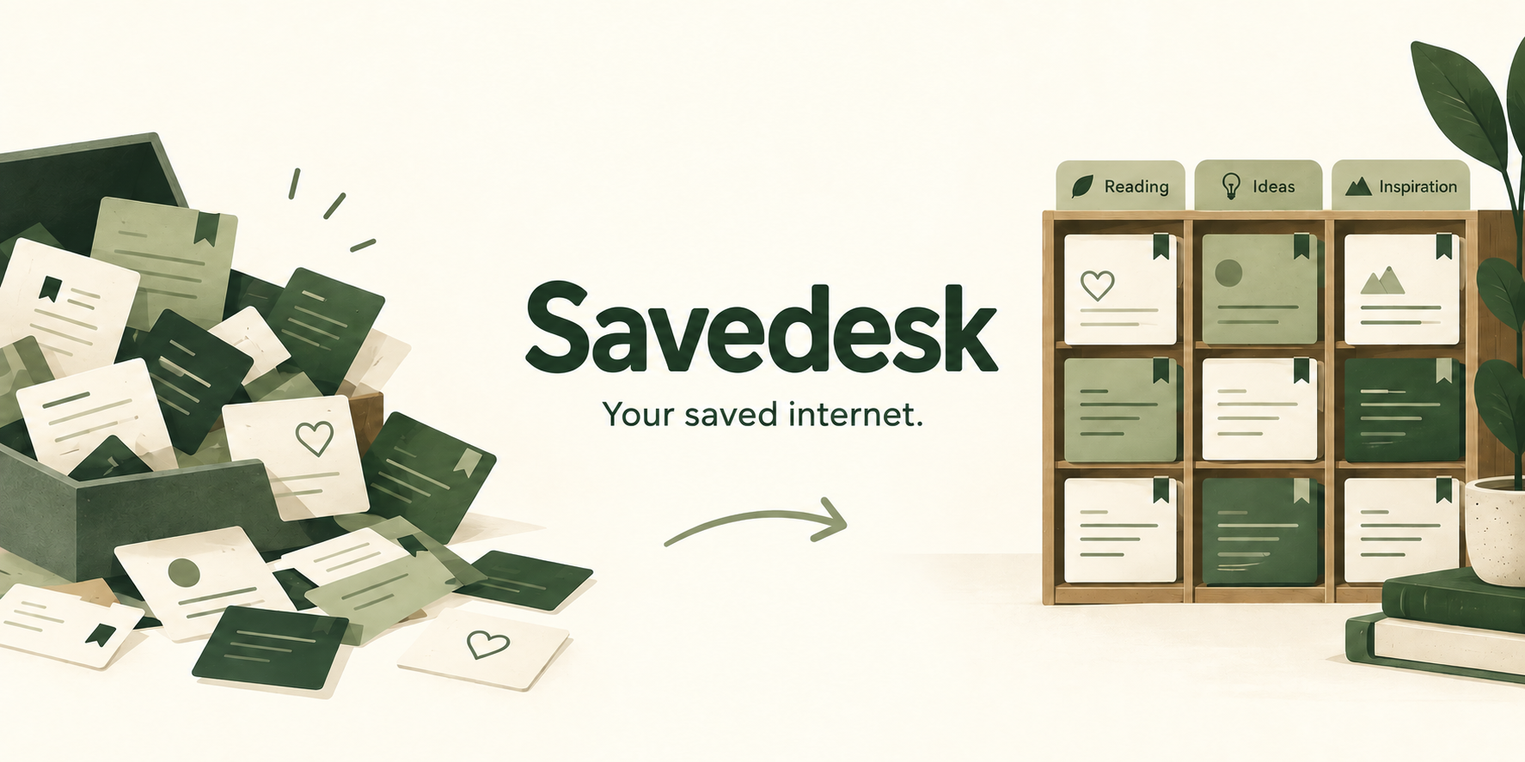
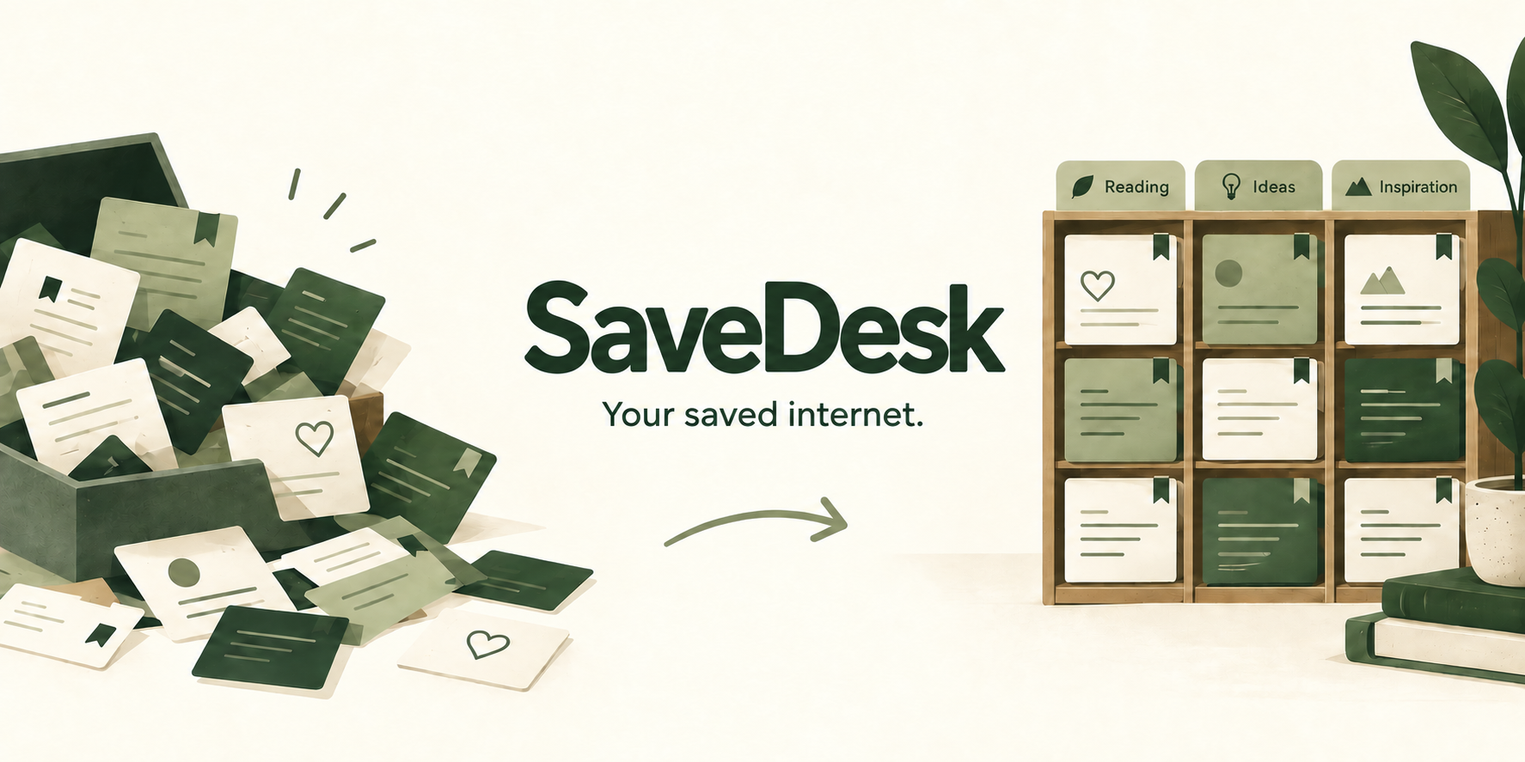
Use SaveDesk branding and correct renamed site links
* Style the product name as SaveDesk

* Update links for the renamed SaveDesk repository

---------

Changed region(s): [[0.403, 0.3653, 0.6821, 0.487], [0.8991, 0.2435, 0.9301, 0.274], [0.372, 0.4566, 0.403, 0.487]]

diff --git a/index.html b/index.html
@@ -4,12 +4,12 @@
 <meta charset="utf-8"><meta name="viewport" content="width=device-width,initial-scale=1,viewport-fit=cover">
 <meta http-equiv="Content-Security-Policy" content="default-src 'self'; script-src 'self'; style-src 'self'; connect-src 'self'; worker-src 'self'; object-src 'none'; base-uri 'none'; form-action 'self'">
 <meta name="description" content="Turn your saved X posts into a searchable reading library. No account or installation needed for file imports.">
-<title>Savedesk · Your saved internet</title>
+<title>SaveDesk · Your saved internet</title>
 <link rel="stylesheet" href="style.css">
 </head>
 <body>
 <div class="shell">
-<header><a class="brand" href="./" aria-label="Savedesk home">▧ save<span>desk</span></a><div class="actions"><button id="help">Quick guide</button><button id="manage">Backup & share</button><button class="primary" id="add">+ Add your saves</button></div></header>
+<header><a class="brand" href="./" aria-label="SaveDesk home">▧ Save<span>Desk</span></a><div class="actions"><button id="help">Quick guide</button><button id="manage">Backup & share</button><button class="primary" id="add">+ Add your saves</button></div></header>
 <main>
 <aside><p class="eyebrow">Your library</p><nav id="nav" aria-label="Library filters"><button data-filter="all" class="active">▦ All saves</button><button data-filter="unread">◷ Unread</button><button data-filter="like">♡ Likes</button><button data-filter="bookmark">⚑ Bookmarks</button><button data-filter="read">✓ Reviewed</button></nav><div class="stats" id="stats"></div><p class="aside-note">A little less scrolling.<br>A little more discovering.</p></aside>
 <section class="library">
@@ -23,16 +23,16 @@
 <p class="local-note">Your imports and reading progress stay in this browser. Use <button class="text-button" id="backup-reminder">Backup & share</button> to keep a copy.</p>
 </section>
 </main>
-<footer class="site-footer"><span>Made for a second look.</span><a href="https://github.com/SharpMeow/savedesk" target="_blank" rel="noopener noreferrer">About this open-source project ↗</a></footer>
+<footer class="site-footer"><span>Made for a second look.</span><a href="https://github.com/SharpMeow/SaveDesk" target="_blank" rel="noopener noreferrer">About this open-source project ↗</a></footer>
 </div>
 <dialog id="onboarding" aria-labelledby="onboarding-title"><div class="dialog-heading"><span class="eyebrow">A few simple steps</span><button data-close="onboarding" aria-label="Close getting started">✕</button></div><h2 id="onboarding-title">Bring your saves along.</h2><p class="muted">Choose the path that fits. You can try the examples while X prepares your archive.</p>
-<div class="setup-steps"><section><span class="step-number">1</span><div><h3>Get your likes from X</h3><p>In X, open <strong>Settings and privacy → Your account → Download an archive of your data</strong>. Request your archive, then download it when X tells you it’s ready.</p><a href="https://help.x.com/en/managing-your-account/how-to-download-your-x-archive" target="_blank" rel="noopener noreferrer">Open X’s step-by-step instructions ↗</a></div></section><section><span class="step-number">2</span><div><h3>Choose your file</h3><p>Already have it? Select your X archive ZIP or the <strong>like.js</strong> file inside its <strong>data</strong> folder. We read the likes files and skip the other archive entries.</p><label class="source-label" for="source">What are you adding?</label><select id="source"><option value="like">Likes or an X archive</option><option value="bookmark">A bookmarks export</option></select><button class="primary" id="import">Choose a file</button><input id="file" type="file" accept=".zip,.json,.js"><p class="small">A Savedesk backup works too. ZIPs up to 200 MB; JSON and JS files up to 50 MB. Your file is read on your device, not uploaded.</p><p id="import-status" role="status"></p></div></section><section><span class="step-number">3</span><div><h3>Find your next good read</h3><p>Search, add topics, and mark posts as read. Come back in this same browser to pick up where you left off.</p></div></section></div>
+<div class="setup-steps"><section><span class="step-number">1</span><div><h3>Get your likes from X</h3><p>In X, open <strong>Settings and privacy → Your account → Download an archive of your data</strong>. Request your archive, then download it when X tells you it’s ready.</p><a href="https://help.x.com/en/managing-your-account/how-to-download-your-x-archive" target="_blank" rel="noopener noreferrer">Open X’s step-by-step instructions ↗</a></div></section><section><span class="step-number">2</span><div><h3>Choose your file</h3><p>Already have it? Select your X archive ZIP or the <strong>like.js</strong> file inside its <strong>data</strong> folder. We read the likes files and skip the other archive entries.</p><label class="source-label" for="source">What are you adding?</label><select id="source"><option value="like">Likes or an X archive</option><option value="bookmark">A bookmarks export</option></select><button class="primary" id="import">Choose a file</button><input id="file" type="file" accept=".zip,.json,.js"><p class="small">A SaveDesk backup works too. ZIPs up to 200 MB; JSON and JS files up to 50 MB. Your file is read on your device, not uploaded.</p><p id="import-status" role="status"></p></div></section><section><span class="step-number">3</span><div><h3>Find your next good read</h3><p>Search, add topics, and mark posts as read. Come back in this same browser to pick up where you left off.</p></div></section></div>
 <div class="note"><strong>Looking for your bookmarks?</strong><p>X archives may not include them. You can add a compatible bookmarks export. Direct X sign-in is available only on a site whose owner has configured it.</p></div>
 <div id="connect-option" hidden><button id="connect" class="primary">Connect X instead</button><p class="small">Read-only access. Sign in on X, then return here to sync.</p></div>
-<details><summary>For people setting up their own site</summary><p>Optional X sign-in requires a developer app and a server. <a href="https://github.com/SharpMeow/savedesk/blob/main/docs/X_SETUP.md" target="_blank" rel="noopener noreferrer">Read the setup guide ↗</a>.</p></details>
+<details><summary>For people setting up their own site</summary><p>Optional X sign-in requires a developer app and a server. <a href="https://github.com/SharpMeow/SaveDesk/blob/main/docs/X_SETUP.md" target="_blank" rel="noopener noreferrer">Read the setup guide ↗</a>.</p></details>
 </dialog>
-<dialog id="guide" aria-labelledby="guide-title"><div class="dialog-heading"><span class="eyebrow">Make yourself at home</span><button data-close="guide" aria-label="Close quick guide">✕</button></div><h2 id="guide-title">A small guide to Savedesk.</h2><ol class="guide-list"><li><strong>Add your saves.</strong> Choose an X archive, an export, or a Savedesk backup. No GitHub account is needed.</li><li><strong>Find an idea.</strong> Search words, use @ for an author or # for a topic, or choose a filter. Press ⌘/Ctrl+K to jump to search.</li><li><strong>Make it yours.</strong> Add topics and mark posts as read. The Unread tab keeps your next reads together.</li><li><strong>Take a few ideas elsewhere.</strong> Select cards and choose “Copy for an AI chat.” Paste the text into any chat you choose. Nothing is sent automatically.</li><li><strong>Keep or share a copy.</strong> Download a backup for yourself, or a shareable page for someone else. They can open that page in a browser.</li></ol><p class="note">Your library lives in this browser. A backup helps you move it to another device or recover it after clearing browser data.</p><button id="guide-start" class="primary">Add your saves →</button></dialog>
-<dialog id="manage-dialog" aria-labelledby="manage-title"><div class="dialog-heading"><span class="eyebrow">Keep the good stuff</span><button data-close="manage-dialog" aria-label="Close backup and share">✕</button></div><h2 id="manage-title">Keep a copy. Pass an idea along.</h2><section class="option"><h3>A backup for you</h3><p>Save your library, topics, and reading progress. To restore it on any device, open Savedesk and choose the backup file.</p><button id="export">Download backup</button></section><section class="option"><h3>A page you can share</h3><p>Download a searchable HTML page of your collection. Send the file however you like; the recipient can open it in a browser, without Savedesk or GitHub.</p><p class="small">Includes post text, authors, and topics. Anyone with the file can read it. Your reading progress is left out.</p><button id="share" class="primary">Download shareable page</button></section><details><summary>Advanced: publish a website</summary><p>For people hosting Savedesk, download the public data file and follow the <a href="https://github.com/SharpMeow/savedesk/blob/main/docs/DEPLOYMENT.md" target="_blank" rel="noopener noreferrer">publishing guide ↗</a>.</p><button id="publish">Download website data</button></details><p id="manage-status" role="status"></p></dialog>
+<dialog id="guide" aria-labelledby="guide-title"><div class="dialog-heading"><span class="eyebrow">Make yourself at home</span><button data-close="guide" aria-label="Close quick guide">✕</button></div><h2 id="guide-title">A small guide to SaveDesk.</h2><ol class="guide-list"><li><strong>Add your saves.</strong> Choose an X archive, an export, or a SaveDesk backup. No GitHub account is needed.</li><li><strong>Find an idea.</strong> Search words, use @ for an author or # for a topic, or choose a filter. Press ⌘/Ctrl+K to jump to search.</li><li><strong>Make it yours.</strong> Add topics and mark posts as read. The Unread tab keeps your next reads together.</li><li><strong>Take a few ideas elsewhere.</strong> Select cards and choose “Copy for an AI chat.” Paste the text into any chat you choose. Nothing is sent automatically.</li><li><strong>Keep or share a copy.</strong> Download a backup for yourself, or a shareable page for someone else. They can open that page in a browser.</li></ol><p class="note">Your library lives in this browser. A backup helps you move it to another device or recover it after clearing browser data.</p><button id="guide-start" class="primary">Add your saves →</button></dialog>
+<dialog id="manage-dialog" aria-labelledby="manage-title"><div class="dialog-heading"><span class="eyebrow">Keep the good stuff</span><button data-close="manage-dialog" aria-label="Close backup and share">✕</button></div><h2 id="manage-title">Keep a copy. Pass an idea along.</h2><section class="option"><h3>A backup for you</h3><p>Save your library, topics, and reading progress. To restore it on any device, open SaveDesk and choose the backup file.</p><button id="export">Download backup</button></section><section class="option"><h3>A page you can share</h3><p>Download a searchable HTML page of your collection. Send the file however you like; the recipient can open it in a browser, without SaveDesk or GitHub.</p><p class="small">Includes post text, authors, and topics. Anyone with the file can read it. Your reading progress is left out.</p><button id="share" class="primary">Download shareable page</button></section><details><summary>Advanced: publish a website</summary><p>For people hosting SaveDesk, download the public data file and follow the <a href="https://github.com/SharpMeow/SaveDesk/blob/main/docs/DEPLOYMENT.md" target="_blank" rel="noopener noreferrer">publishing guide ↗</a>.</p><button id="publish">Download website data</button></details><p id="manage-status" role="status"></p></dialog>
 <dialog id="tag-dialog" aria-labelledby="tag-title"><form id="tag-form"><div class="dialog-heading"><span class="eyebrow">A place for this idea</span><button type="button" data-close="tag-dialog" aria-label="Close topic editor">✕</button></div><h2 id="tag-title">Edit topics</h2><label for="tag-input">Topics, separated by commas</label><p><input id="tag-input" placeholder="Design, Research, Weekend reads"></p><p id="tag-status" role="status"></p><button type="submit" class="primary">Save topics</button></form></dialog>
 <dialog id="copy-dialog" aria-labelledby="copy-title"><div class="dialog-heading"><span class="eyebrow">Ready to take with you</span><button data-close="copy-dialog" aria-label="Close selected text">✕</button></div><h2 id="copy-title">Copy your selected saves</h2><p>Automatic copying isn’t available in this browser. Select and copy the text below, then paste it into your chat.</p><textarea id="copy-text" aria-label="Selected saves" readonly rows="12"></textarea></dialog>
 <script type="module" src="app.js"></script>

diff --git a/docs/GETTING_STARTED.md b/docs/GETTING_STARTED.md
@@ -1,31 +1,31 @@
 # Start here: no GitHub experience needed
 
-## 1. Open Savedesk
+## 1. Open SaveDesk
 
-[Open Savedesk in your browser](https://sharpmeow.github.io/savedesk/). You do not need to download code, create a GitHub account, or install anything. The first cards are fictional examples, so you can explore before adding your own saves.
+[Open SaveDesk in your browser](https://sharpmeow.github.io/SaveDesk/). You do not need to download code, create a GitHub account, or install anything. The first cards are fictional examples, so you can explore before adding your own saves.
 
 ## 2. Get your likes from X
 
-In X, open **Settings and privacy → Your account → Download an archive of your data** and request your archive. X will let you know when it is ready to download. This may take time; Savedesk cannot speed it up.
+In X, open **Settings and privacy → Your account → Download an archive of your data** and request your archive. X will let you know when it is ready to download. This may take time; SaveDesk cannot speed it up.
 
 [Read X's archive instructions](https://help.x.com/en/managing-your-account/how-to-download-your-x-archive).
 
 ## 3. Add the file
 
-In Savedesk, choose **Get started** or **Add your saves**, then **Choose a file**. Select the ZIP you downloaded from X. Savedesk reads the likes files locally and skips other archive entries. It does not upload your archive.
+In SaveDesk, choose **Get started** or **Add your saves**, then **Choose a file**. Select the ZIP you downloaded from X. SaveDesk reads the likes files locally and skips other archive entries. It does not upload your archive.
 
 If the ZIP is larger than 200 MB, unzip it on your device, open its **data** folder, and choose **like.js** instead. Individual JS or JSON files must be no larger than 50 MB. Import separate like-part files one at a time if necessary.
 
-Already have a compatible bookmarks export or a Savedesk backup? Choose it in the same place. For an unlabelled bookmarks export, first choose **A bookmarks export** from the dropdown.
+Already have a compatible bookmarks export or a SaveDesk backup? Choose it in the same place. For an unlabelled bookmarks export, first choose **A bookmarks export** from the dropdown.
 
-**Bookmarks:** X archives may not contain them. Savedesk can read compatible bookmark exports, but does not create those exports for you. Direct X sign-in is available only on a deployment whose owner has configured it. You do not need to learn developer setup to try the public site with files.
+**Bookmarks:** X archives may not contain them. SaveDesk can read compatible bookmark exports, but does not create those exports for you. Direct X sign-in is available only on a deployment whose owner has configured it. You do not need to learn developer setup to try the public site with files.
 
 ## 4. Find and organize
 
 - Search words, an `@author`, or a `#topic`. Use the dropdowns to narrow the list.
 - Choose **Topics** on a card to add labels such as Research or Recipes.
 - Choose **Mark read**, then use **Unread** to find what is left.
-- Select a few cards and choose **Copy for an AI chat**. Paste into any chat yourself; Savedesk does not send content automatically.
+- Select a few cards and choose **Copy for an AI chat**. Paste into any chat yourself; SaveDesk does not send content automatically.
 
 Author filters only work when your export contains author names. Some X archive likes have text and IDs without authors.
 
@@ -33,7 +33,7 @@ Author filters only work when your export contains author names. Some X archive 
 
 Choose **Backup & share → Download backup**. Keep the downloaded file somewhere you can find it. Your current library stays in this browser, but clearing browser data or changing devices does not automatically bring it along.
 
-To restore a backup on another device, open Savedesk and choose **Add your saves → Choose a file**, then select the backup. This merges saves rather than deleting anything already there.
+To restore a backup on another device, open SaveDesk and choose **Add your saves → Choose a file**, then select the backup. This merges saves rather than deleting anything already there.
 
 ## 6. Share without GitHub
 
@@ -41,4 +41,4 @@ Choose **Backup & share → Download shareable page**. Open the downloaded `.htm
 
 Anyone with that file can read its contents. Sending the file is a choice you make; the download button does not send or publish it. Some email apps block HTML attachments or show only a preview, so the recipient may need to download it and use **Open with → their browser**. This is a file, not a public website link.
 
-If you specifically want a public website address, the optional [publishing guide](DEPLOYMENT.md) explains hosting. You do not need that step to use Savedesk or share a file.
+If you specifically want a public website address, the optional [publishing guide](DEPLOYMENT.md) explains hosting. You do not need that step to use SaveDesk or share a file.

diff --git a/README.md b/README.md
@@ -1,19 +1,19 @@
 <p align="center">
-  <img src="docs/assets/savedesk-banner.png" alt="Savedesk: Your saved internet. Saved ideas arranged into an organized library." width="100%">
+  <img src="docs/assets/savedesk-banner.png" alt="SaveDesk: Your saved internet. Saved ideas arranged into an organized library." width="100%">
 </p>
 
-# Savedesk
+# SaveDesk
 
 **A calmer home for your X likes and bookmarks.** Search a compact card grid, organize ideas with topics, and work through an unread queue at your own pace.
 
-[Open Savedesk](https://sharpmeow.github.io/savedesk/) · [Get started](docs/GETTING_STARTED.md) · [Connect X](#connect-x) · [Contribute](CONTRIBUTING.md)
+[Open SaveDesk](https://sharpmeow.github.io/SaveDesk/) · [Get started](docs/GETTING_STARTED.md) · [Connect X](#connect-x) · [Contribute](CONTRIBUTING.md)
 
-[![CI](https://github.com/SharpMeow/savedesk/actions/workflows/ci.yml/badge.svg)](https://github.com/SharpMeow/savedesk/actions/workflows/ci.yml)
+[![CI](https://github.com/SharpMeow/SaveDesk/actions/workflows/ci.yml/badge.svg)](https://github.com/SharpMeow/SaveDesk/actions/workflows/ci.yml)
 [![License: MIT](https://img.shields.io/badge/License-MIT-47734f.svg)](LICENSE)
 
 ## Just want to use it?
 
-**[Open Savedesk in your browser →](https://sharpmeow.github.io/savedesk/)**
+**[Open SaveDesk in your browser →](https://sharpmeow.github.io/SaveDesk/)**
 
 No GitHub account, coding, or installation needed. Choose **Get started** on the site: it explains how to request your X archive and add the downloaded ZIP. You can explore the examples while you wait. Your archive is read on your device, not uploaded.
 
@@ -21,7 +21,7 @@ No GitHub account, coding, or installation needed. Choose **Get started** on the
 
 ## What it does
 
-- Import an X archive ZIP, archive likes files, compatible JSON exports, or a Savedesk backup.
+- Import an X archive ZIP, archive likes files, compatible JSON exports, or a SaveDesk backup.
 - Search post text, `@authors`, and `#topics`. Filter by author, likes, bookmarks, topics, and reading status. Press ⌘/Ctrl+K to search.
 - Merge duplicate posts while preserving their sources, tags, and reviewed status.
 - Connect your own X developer app for read-only, manual likes and bookmarks sync.
@@ -37,7 +37,7 @@ The layout adapts to phones, tablets, foldable screen widths, and larger windows
 
 | Mode | What you need | What works |
 | --- | --- | --- |
-| [Public demo](https://sharpmeow.github.io/savedesk/) or static hosting | A modern browser | File import, search, tags, reading queue, export |
+| [Public demo](https://sharpmeow.github.io/SaveDesk/) or static hosting | A modern browser | File import, search, tags, reading queue, export |
 | Local Node.js server | Node.js 22 or 24 LTS recommended | All file features; optional X login with credentials |
 | Hosted Node.js server | HTTPS host, your X app, environment secrets | X login and sync on your own deployment |
 
@@ -46,8 +46,8 @@ GitHub Pages cannot run the OAuth server. The demo guides you through file impor
 ## Quick start for self-hosting
 
 ```sh
-git clone https://github.com/SharpMeow/savedesk.git
-cd savedesk
+git clone https://github.com/SharpMeow/SaveDesk.git
+cd SaveDesk
 npm start
 ```
 
@@ -60,7 +60,7 @@ Choose **Add your saves → Choose a file** to bring in your file. Use **What ar
 1. Create an app in the [X Developer Console](https://developer.x.com/) and enable OAuth 2.0 as a **Web App**.
 2. Register the exact local callback URL: `http://localhost:4173/auth/callback`.
 3. Copy `.env.example` to `.env` and fill in your OAuth 2.0 Client ID and Client Secret locally.
-4. Stop any existing Savedesk server, then run `node --env-file=.env server.mjs`.
+4. Stop any existing SaveDesk server, then run `node --env-file=.env server.mjs`.
 5. Open **http://localhost:4173**, choose **Add your saves → Connect X instead**, authorize, then choose **Sync X saves**.
 
 [Full X setup, permissions, and troubleshooting](docs/X_SETUP.md). Your X account needs access and any required credits for the requested API endpoints. Do not put credentials in GitHub or browser code.
@@ -95,7 +95,7 @@ Publishing makes post text, authors, IDs, and tags public. Do not submit your co
 
 ## License and attribution
 
-Savedesk's code and documentation are [MIT licensed](LICENSE). Imported posts and media remain subject to their respective owners' rights; the software license does not relicense them. Savedesk is an independent project, not affiliated with or endorsed by X.
+SaveDesk's code and documentation are [MIT licensed](LICENSE). Imported posts and media remain subject to their respective owners' rights; the software license does not relicense them. SaveDesk is an independent project, not affiliated with or endorsed by X.
 
 The bundled ZIP reader retains its [upstream MIT license](vendor/fflate-LICENSE).
 

diff --git a/docs/IMPORTING.md b/docs/IMPORTING.md
@@ -2,11 +2,11 @@
 
 ## X archive likes
 
-Request an archive from **X → Settings and privacy → Your account → Download an archive of your data**. Once it is ready, select the downloaded ZIP in Savedesk, or extract it and look for `data/like.js`. Import each part separately if the archive is split. Archive contents vary; do not assume bookmarks are included. [Official archive instructions](https://help.x.com/en/managing-your-account/how-to-download-your-x-archive).
+Request an archive from **X → Settings and privacy → Your account → Download an archive of your data**. Once it is ready, select the downloaded ZIP in SaveDesk, or extract it and look for `data/like.js`. Import each part separately if the archive is split. Archive contents vary; do not assume bookmarks are included. [Official archive instructions](https://help.x.com/en/managing-your-account/how-to-download-your-x-archive).
 
-Choose **Add your saves → Choose a file** and select the file. ZIP imports read only `like.js` and `like-partN.js` entries and skip unrelated entries. Savedesk strips the standard `window.YTD.…partN =` wrapper and parses JSON. It never executes the JavaScript file. The first successful import replaces the fictional demo collection.
+Choose **Add your saves → Choose a file** and select the file. ZIP imports read only `like.js` and `like-partN.js` entries and skip unrelated entries. SaveDesk strips the standard `window.YTD.…partN =` wrapper and parses JSON. It never executes the JavaScript file. The first successful import replaces the fictional demo collection.
 
-Do not post an account archive to an issue or public repository. Selecting it in Savedesk reads it locally without uploading it. ZIPs above 200 MB are rejected; unzip those on your device and select the likes files. Extracted likes are limited to 50 MB and 100 parts per ZIP. Individual JSON/JS imports are limited to 50 MB. File processing runs in a worker and stops after 30 seconds; if an import times out, choose a smaller file or archive part.
+Do not post an account archive to an issue or public repository. Selecting it in SaveDesk reads it locally without uploading it. ZIPs above 200 MB are rejected; unzip those on your device and select the likes files. Extracted likes are limited to 50 MB and 100 parts per ZIP. Individual JSON/JS imports are limited to 50 MB. File processing runs in a worker and stops after 30 seconds; if an import times out, choose a smaller file or archive part.
 
 Imports and libraries are limited to 100,000 records/saves. Each save supports up to 100,000 text characters, 500 author characters, and 100 topics of up to 200 characters each. Exceeding these limits rejects the import instead of truncating its contents. Post IDs must be positive numeric strings of up to 20 digits. Small safe integer IDs are accepted, but large JSON numbers are rejected because their digits may already be rounded. Duplicate IDs, including zero-padded equivalents, merge into one save.
 
@@ -34,7 +34,7 @@ Accepted top-level shapes are an array, `{ "items": [...] }`, or an X API-style 
 | `text` or `fullText` | Post text. Missing text gets an unavailable-text placeholder. |
 | `author` | Optional display text. Raw API file imports do not resolve `includes.users`; authenticated sync does. |
 | `source` | `like` or `bookmark`. Otherwise the import selector supplies the default. |
-| `sources` | Optional array of `like` and/or `bookmark`, used by Savedesk backups. |
+| `sources` | Optional array of `like` and/or `bookmark`, used by SaveDesk backups. |
 | `tags` | Optional array of strings. |
 | `read` | Optional boolean; only `true` marks it reviewed. |
 | `created_at` | Optional timestamp string, preserved for export. Sorting currently uses post IDs. |
@@ -57,4 +57,4 @@ Search matches text, authors, and tags. Space-separated search terms are combine
 
 **Backup & share → Download shareable page** creates a standalone searchable HTML file containing all saves and tags, excluding reading status. Open it to review, then send it yourself. Readers can open it locally in a browser without an account. The page does not make requests until a reader opens an external link.
 
-Select cards and choose **Copy for an AI chat** to copy only the selection, with author names and source links. Clipboard access can be unavailable; in that case a dialog offers selectable text. Savedesk does not contact an AI provider. Selection is temporary and is cleared on reload or import.
+Select cards and choose **Copy for an AI chat** to copy only the selection, with author names and source links. Clipboard access can be unavailable; in that case a dialog offers selectable text. SaveDesk does not contact an AI provider. Selection is temporary and is cleared on reload or import.

diff --git a/PRIVACY.md b/PRIVACY.md
@@ -10,7 +10,7 @@ The public demo is served by GitHub Pages, whose provider may log ordinary HTTP 
 
 ## X connection
 
-X handles account sign-in. Savedesk requests read-only profile, post, like, and bookmark access. The server receives the OAuth authorization code and exchanges it for an access token. It keeps that token, account details, and session expiry in process memory. The browser receives an opaque HttpOnly session cookie, not the token.
+X handles account sign-in. SaveDesk requests read-only profile, post, like, and bookmark access. The server receives the OAuth authorization code and exchanges it for an access token. It keeps that token, account details, and session expiry in process memory. The browser receives an opaque HttpOnly session cookie, not the token.
 
 Sync sends authenticated API requests from the server to X and returns available post text and authors to your browser. Imported results are then stored locally. Sessions expire within two hours or on restart. There are no refresh tokens, scheduled syncs, or server-side collection databases.
 
@@ -33,4 +33,4 @@ Replacing a public repository's `collection.json` publishes that content to repo
 
 **Download shareable page** creates an HTML file containing all saved text, authors, topics, and source links, without reading state. Anyone with the file can read it. It works locally, and does not load remote content automatically. The app does not send this file for you.
 
-**Copy for an AI chat** puts selected posts and source links on your clipboard, or shows the text for manual copying. Nothing is sent to an AI service by Savedesk. If you paste it into another service, that service's data policies apply. Treat imported posts as untrusted quoted content.
+**Copy for an AI chat** puts selected posts and source links on your clipboard, or shows the text for manual copying. Nothing is sent to an AI service by SaveDesk. If you paste it into another service, that service's data policies apply. Treat imported posts as untrusted quoted content.

diff --git a/SECURITY.md b/SECURITY.md
@@ -2,7 +2,7 @@
 
 ## Support status
 
-Savedesk is an early prototype. Security fixes target the current `main` branch. There is no dedicated security team, response-time guarantee, or independent security audit.
+SaveDesk is an early prototype. Security fixes target the current `main` branch. There is no dedicated security team, response-time guarantee, or independent security audit.
 
 ## Report a vulnerability
 
@@ -22,6 +22,6 @@ Include the affected commit, impact, minimal reproduction with fictional data, a
 - Pending logins and sessions each have a 256-entry cap. Only one upstream sync request can run per session at a time. These bounds do not replace production rate limiting.
 - Shared HTML escapes imported text and includes no reading-state data. Copying selected posts never submits them to an AI service.
 - Imported text is rendered as text and archive assignments are parsed as JSON, not executed.
-- Browser storage is not encrypted by Savedesk. Use a dedicated origin, a trusted browser profile, and a trusted server operator.
+- Browser storage is not encrypted by SaveDesk. Use a dedicated origin, a trusted browser profile, and a trusted server operator.
 
 The server is intended for local use or a small deployment you control. It has no durable sessions, application-level rate limiting, multi-instance session sharing, or production abuse controls. Review and add those before offering unrestricted public OAuth access. Server operators must avoid logging authorization codes, cookies, tokens, or imported data in proxies and monitoring tools.

diff --git a/docs/assets/README.md b/docs/assets/README.md
@@ -13,3 +13,12 @@ The final artwork includes small thematic labels beyond the requested title and 
 The banner was edited with the same built-in tool at the user's request. Edit prompt:
 
 > Edit only the tagline typography in this Savedesk banner. The user likes this illustration, so preserve the entire illustration, title Savedesk, palette, textures, paper cards, shelf, plants, composition, canvas aspect ratio, and all other details. Keep exact tagline text 'Your saved internet.' with a single period. Make the spacing between the three words about 25 percent smaller, and make letter spacing slightly tighter for a more natural, modern, compact reading line. Keep the tagline font size, weight, color, vertical position, and centered alignment under Savedesk. Do not change any other element.
+
+
+## SaveDesk wordmark correction
+
+The banner was edited with the built-in image-generation tool to use **SaveDesk**, with capital S and D, preserving the existing artwork and tight tagline spacing.
+
+Prompt:
+
+> Change only the main large central brand lettering to exactly "SaveDesk" (S a v e D e s k). Keep the same bold modern typography, forest-green color, placement and scale. Preserve "Your saved internet." with its current tight word spacing. Preserve all surrounding cards, cubbies, plant, arrows, category labels, cream background, textures, composition, aspect ratio, lighting, and colors. No additional words or objects.

diff --git a/docs/X_SETUP.md b/docs/X_SETUP.md
@@ -61,8 +61,8 @@ The end-of-results message means X returned no further page token. It does not g
 | Access denied / 403 | Check read scopes, account/app entitlement, and that the browser origin equals `APP_URL`. |
 | Rate limited / 429 | Wait before retrying. Avoid repeated clicks or parallel sync sessions. |
 | Port already in use | Stop the other process, or change `PORT`, `APP_URL`, and the registered callback consistently. |
-| Missing posts | Compare source exports and API availability. Savedesk cannot recover content X does not return. |
+| Missing posts | Compare source exports and API availability. SaveDesk cannot recover content X does not return. |
 
-**Disconnect X** clears Savedesk's server session; imported saves remain in the browser. To revoke the underlying grant, use X's connected-app settings.
+**Disconnect X** clears SaveDesk's server session; imported saves remain in the browser. To revoke the underlying grant, use X's connected-app settings.
 
 For hosting, continue to [deployment](DEPLOYMENT.md).

diff --git a/docs/TESTING.md b/docs/TESTING.md
@@ -1,6 +1,6 @@
 # Testing and device support
 
-Savedesk adapts to the space available, including phones, tablets, laptop and desktop windows, split-screen windows, and folded or unfolded phone viewports. Use an updated browser with JavaScript, module workers, and file downloads enabled. Your library is stored per browser and device; use a backup to move it.
+SaveDesk adapts to the space available, including phones, tablets, laptop and desktop windows, split-screen windows, and folded or unfolded phone viewports. Use an updated browser with JavaScript, module workers, and file downloads enabled. Your library is stored per browser and device; use a backup to move it.
 
 ## Automated checks
 

diff --git a/docs/ARCHITECTURE.md b/docs/ARCHITECTURE.md
@@ -1,6 +1,6 @@
 # Architecture
 
-Savedesk is a small browser application with an optional Node.js OAuth/API server. It has no package installation, build pipeline, or database. The ZIP reader is vendored locally with its license.
+SaveDesk is a small browser application with an optional Node.js OAuth/API server. It has no package installation, build pipeline, or database. The ZIP reader is vendored locally with its license.
 
 ## Files
 

diff --git a/CODE_OF_CONDUCT.md b/CODE_OF_CONDUCT.md
@@ -1,6 +1,6 @@
 # Community guidelines
 
-Help make Savedesk a welcoming place to learn and contribute.
+Help make SaveDesk a welcoming place to learn and contribute.
 
 - Be respectful and constructive. Discuss the work, not personal attributes.
 - Welcome beginners and differing experiences. Explain assumptions and give actionable feedback.

diff --git a/CONTRIBUTING.md b/CONTRIBUTING.md
@@ -1,4 +1,4 @@
-# Contributing to Savedesk
+# Contributing to SaveDesk
 
 Small, focused contributions are welcome. This is an experimental community project with no guaranteed response time. Open an issue before starting a large change so others can discuss the scope.
 
